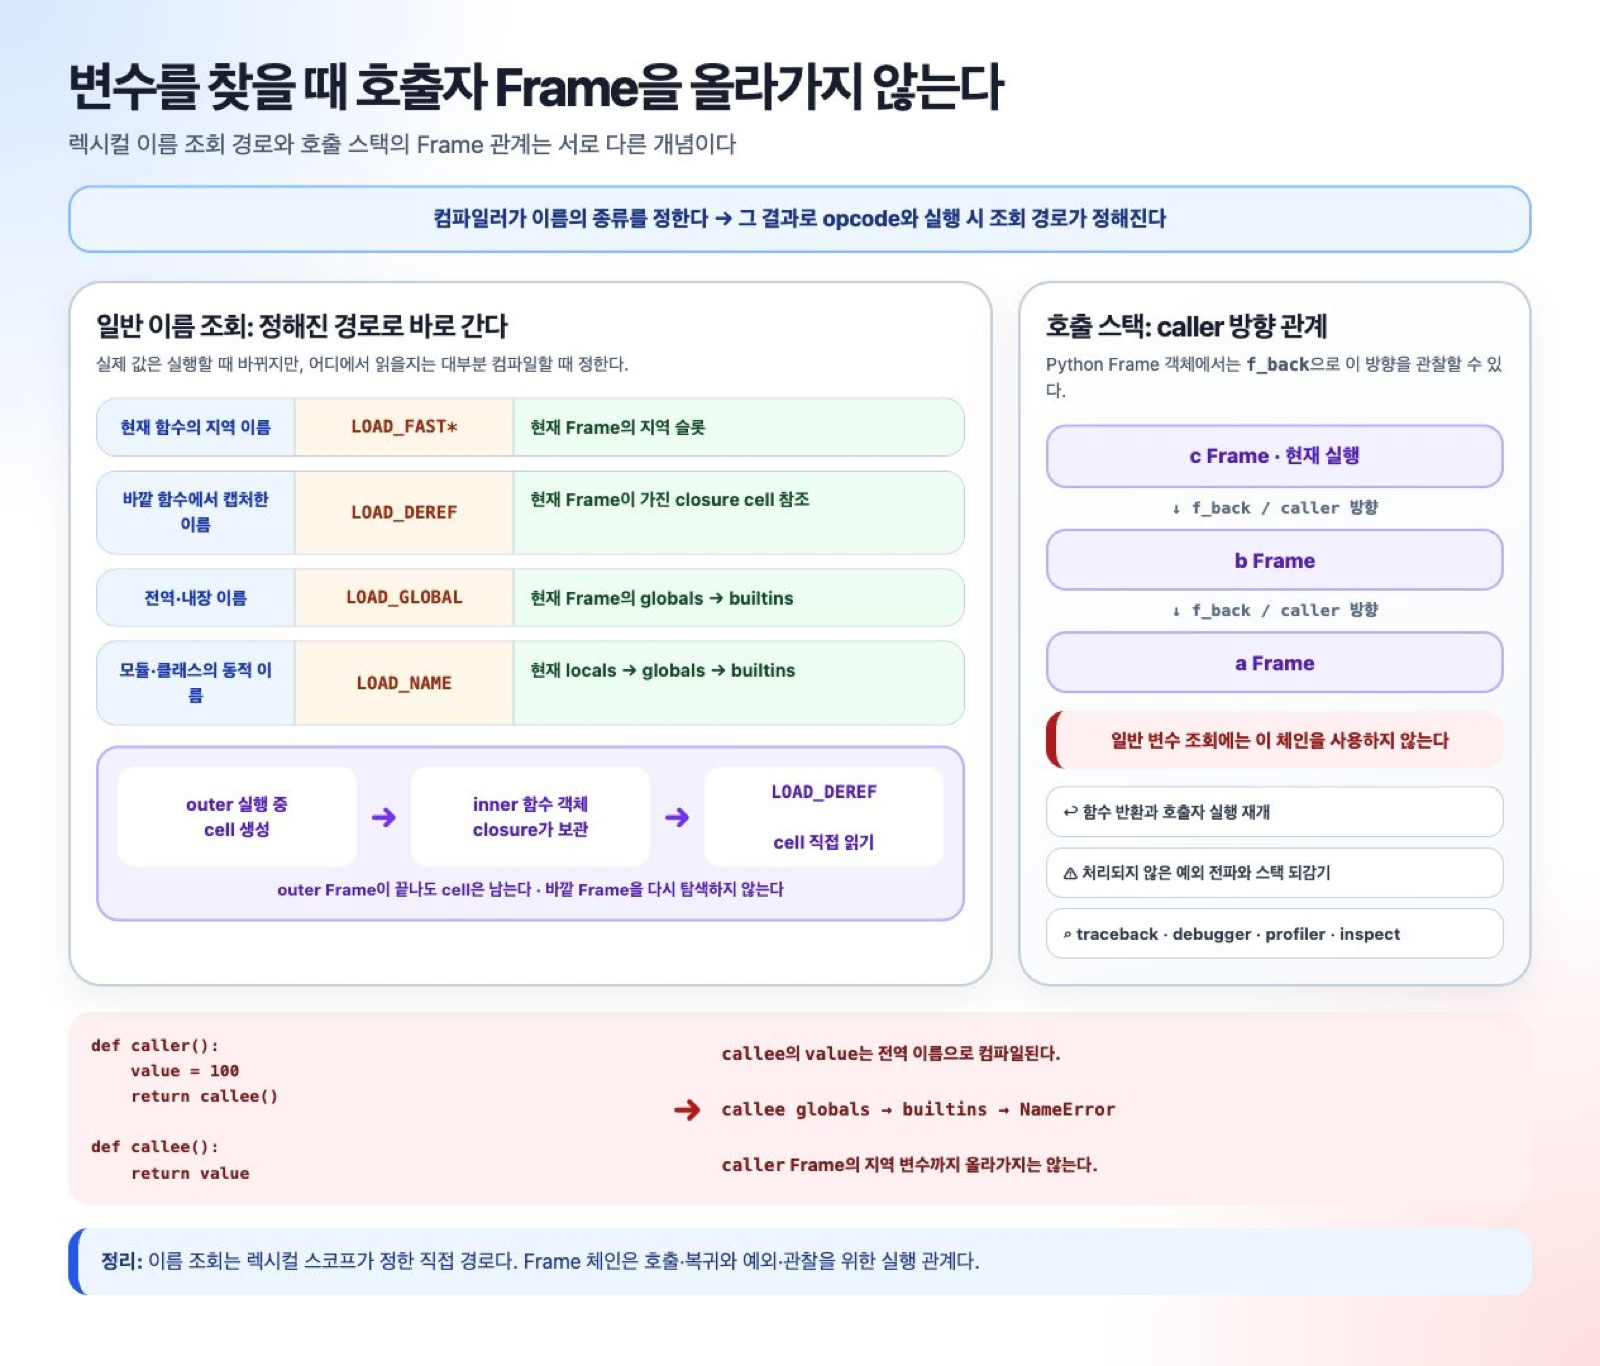
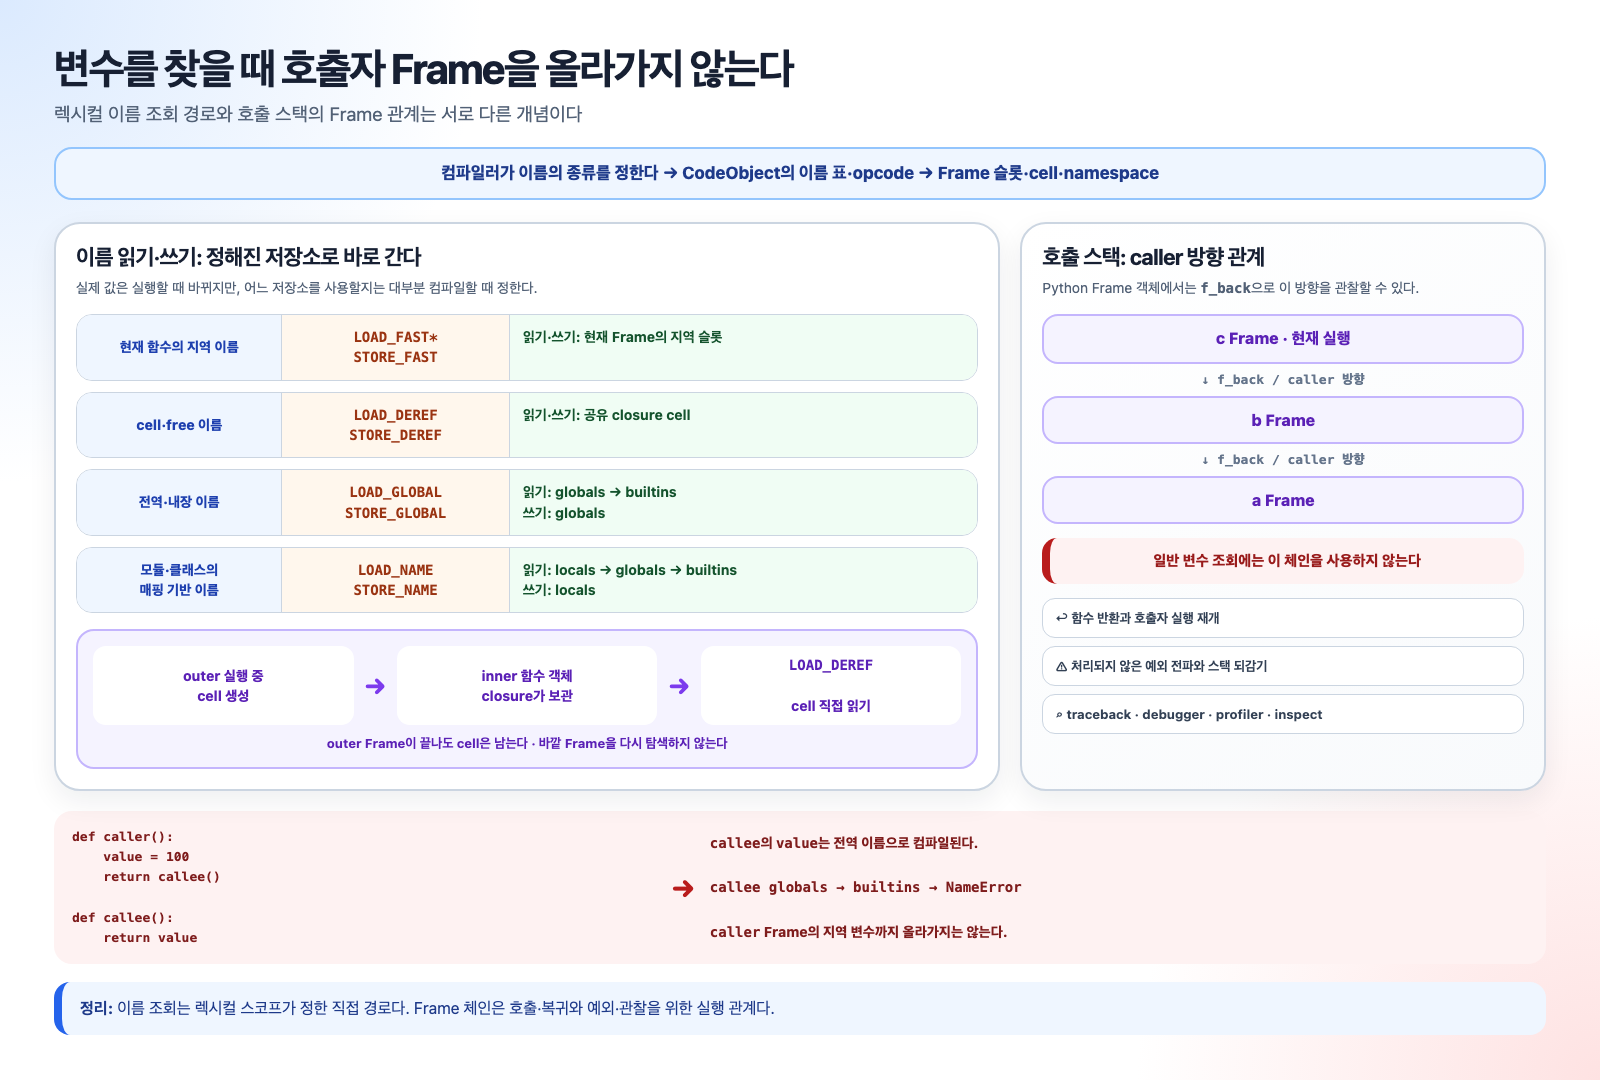
docs: explain scope storage and name bytecodes

diff --git a/cpython-internals-notes/3.14/compilation-to-execution/diagrams/05-name-resolution-and-frame-chain.html b/cpython-internals-notes/3.14/compilation-to-execution/diagrams/05-name-resolution-and-frame-chain.html
@@ -300,32 +300,32 @@
   <main class="canvas">
     <h1>변수를 찾을 때 호출자 Frame을 올라가지 않는다</h1>
     <div class="subtitle">렉시컬 이름 조회 경로와 호출 스택의 Frame 관계는 서로 다른 개념이다</div>
-    <div class="banner">컴파일러가 이름의 종류를 정한다 → 그 결과로 opcode와 실행 시 조회 경로가 정해진다</div>
+    <div class="banner">컴파일러가 이름의 종류를 정한다 → CodeObject의 이름 표·opcode → Frame 슬롯·cell·namespace</div>
 
     <section class="layout">
       <article class="panel" aria-labelledby="lookup-title">
-        <h2 id="lookup-title">일반 이름 조회: 정해진 경로로 바로 간다</h2>
-        <div class="panel-intro">실제 값은 실행할 때 바뀌지만, 어디에서 읽을지는 대부분 컴파일할 때 정한다.</div>
+        <h2 id="lookup-title">이름 읽기·쓰기: 정해진 저장소로 바로 간다</h2>
+        <div class="panel-intro">실제 값은 실행할 때 바뀌지만, 어느 저장소를 사용할지는 대부분 컴파일할 때 정한다.</div>
         <div class="lookup-list">
           <div class="lookup">
             <div class="scope">현재 함수의 지역 이름</div>
-            <div class="opcode">LOAD_FAST*</div>
-            <div class="path">현재 Frame의 지역 슬롯</div>
+            <div class="opcode">LOAD_FAST*<br>STORE_FAST</div>
+            <div class="path">읽기·쓰기: 현재 Frame의 지역 슬롯</div>
           </div>
           <div class="lookup">
-            <div class="scope">바깥 함수에서 캡처한 이름</div>
-            <div class="opcode">LOAD_DEREF</div>
-            <div class="path">현재 Frame이 가진 closure cell 참조</div>
+            <div class="scope">cell·free 이름</div>
+            <div class="opcode">LOAD_DEREF<br>STORE_DEREF</div>
+            <div class="path">읽기·쓰기: 공유 closure cell</div>
           </div>
           <div class="lookup">
             <div class="scope">전역·내장 이름</div>
-            <div class="opcode">LOAD_GLOBAL</div>
-            <div class="path">현재 Frame의 globals → builtins</div>
+            <div class="opcode">LOAD_GLOBAL<br>STORE_GLOBAL</div>
+            <div class="path">읽기: globals → builtins<br>쓰기: globals</div>
           </div>
           <div class="lookup">
-            <div class="scope">모듈·클래스의 동적 이름</div>
-            <div class="opcode">LOAD_NAME</div>
-            <div class="path">현재 locals → globals → builtins</div>
+            <div class="scope">모듈·클래스의<br>매핑 기반 이름</div>
+            <div class="opcode">LOAD_NAME<br>STORE_NAME</div>
+            <div class="path">읽기: locals → globals → builtins<br>쓰기: locals</div>
           </div>
         </div>
 

diff --git a/cpython-internals-notes/3.14/runtime-objects/README.ko.md b/cpython-internals-notes/3.14/runtime-objects/README.ko.md
@@ -567,6 +567,8 @@ Python의 의미 규칙상 프레임은 해당 함수 호출의 실행이 끝난
 > 보통 함수의 지역 변수는 문자열 키로 매번 딕셔너리를 조회하지 않고, 컴파일 때 정해진 번호의 슬롯에서 직접 읽고 쓴다. 이를 “fast locals”라고 부른다. 반면 `eval()`이나 클래스 본문 실행처럼 이름 공간을 딕셔너리 형태로 다뤄야 하는 경우에는 별도의 지역 딕셔너리가 필요하다.
 >
 > 코드 객체는 실행할 바이트코드와 상수·이름 메타데이터를 담고, 함수 객체는 여기에 전역 네임스페이스·기본 인수·클로저 같은 실행 문맥을 결합한다. 프레임은 특정 함수 객체가 특정 호출에서 실행되는 현재 상태다.
+>
+> local·cell·free·global 분류와 이름 딕셔너리, `LOAD`·`STORE` 바이트코드의 전체 연결은 [컴파일에서 실행까지](../compilation-to-execution/README.ko.md#이름-분류에서-저장소와-opcode까지)를 참고한다.
 
 함수 포인터가 반드시 필요한 것은 아니다. 그러나 전역 딕셔너리와 내장 이름 딕셔너리 양쪽에 강한 참조를 보관하는 것보다 함수에 강한 참조 하나를 보관하고 전역 딕셔너리와 내장 이름 딕셔너리에는 빌린 참조를 보관하는 편이 더 저렴하다.
 

diff --git a/cpython-internals-notes/3.14/compiling-python-source-code/README.ko.md b/cpython-internals-notes/3.14/compiling-python-source-code/README.ko.md
@@ -1498,6 +1498,12 @@ def outer():
 이 구분에 따라 이후 생성할 명령어 계열이 달라진다. 지역 변수, 전역 이름, 클로저 변수는
 서로 다른 저장 위치와 조회 절차를 사용한다.
 
+이 절은 컴파일러가 이름을 **왜** local·cell·free·global로 분류하는지를 다룬다. 그 결과가
+CodeObject의 이름 표와 `LOAD_FAST`·`LOAD_DEREF`·`LOAD_GLOBAL`·`LOAD_NAME`, 실제
+Frame 슬롯·cell·네임스페이스 매핑으로 이어지는 과정은
+[컴파일에서 실행까지](../compilation-to-execution/README.ko.md#이름-분류에서-저장소와-opcode까지)에서
+한 예제로 연결해 설명한다.
+
 > **해설 — AST 생성과 동시에 이름을 확정하지 않는 이유**
 >
 > 이름의 성격은 그 이름이 나타난 한 지점만 보고 정할 수 없다. 함수 전체에 대입이 있는지,
